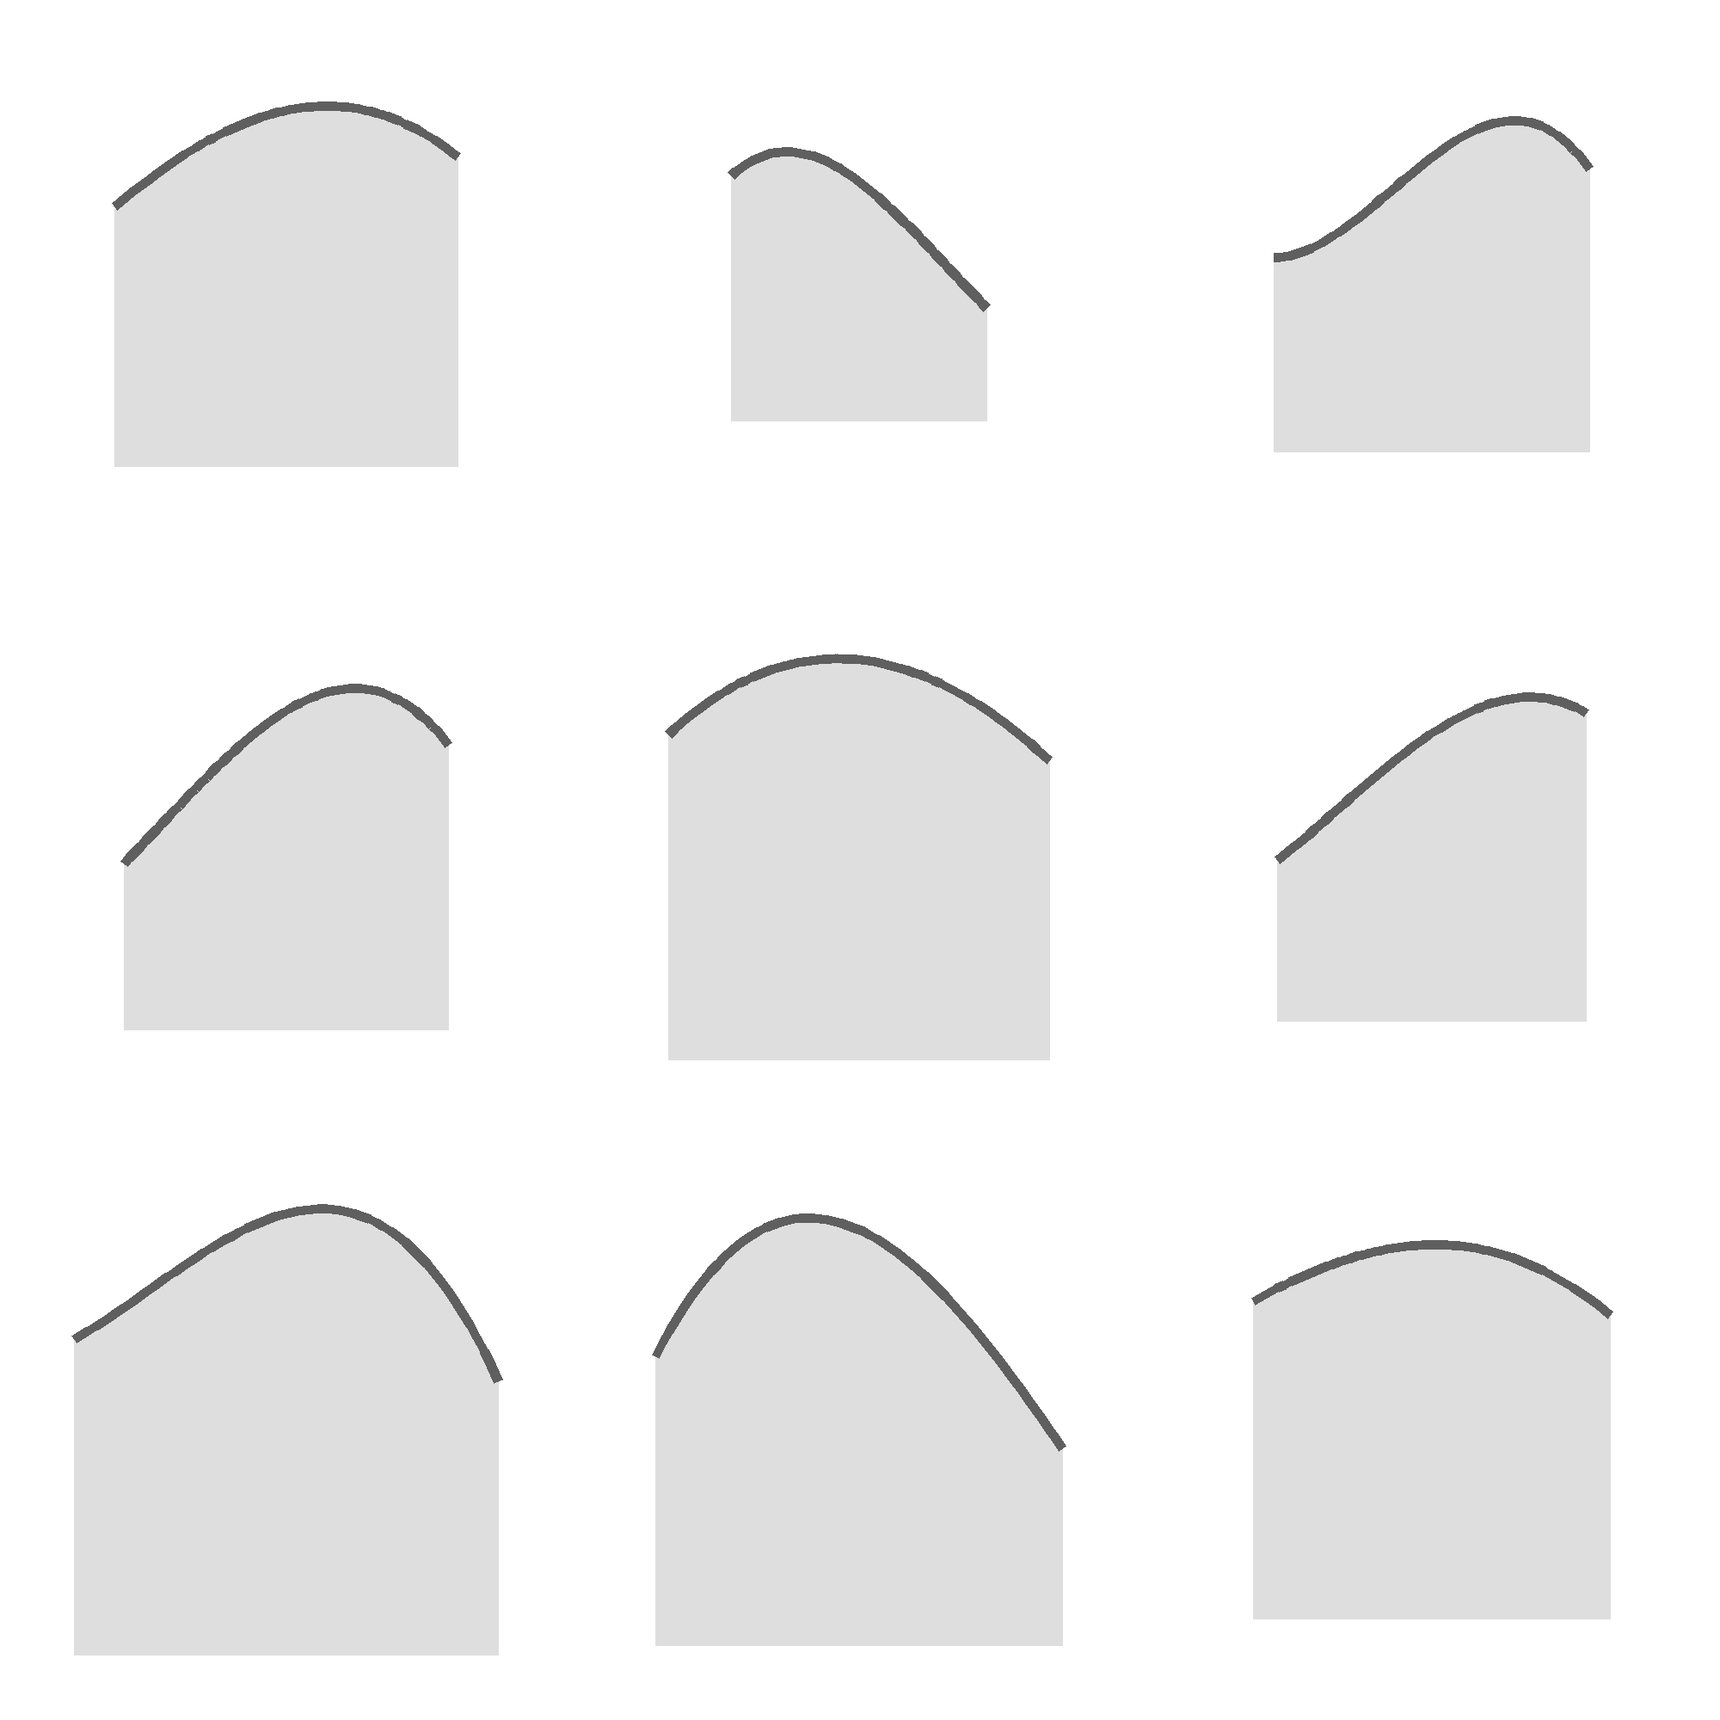
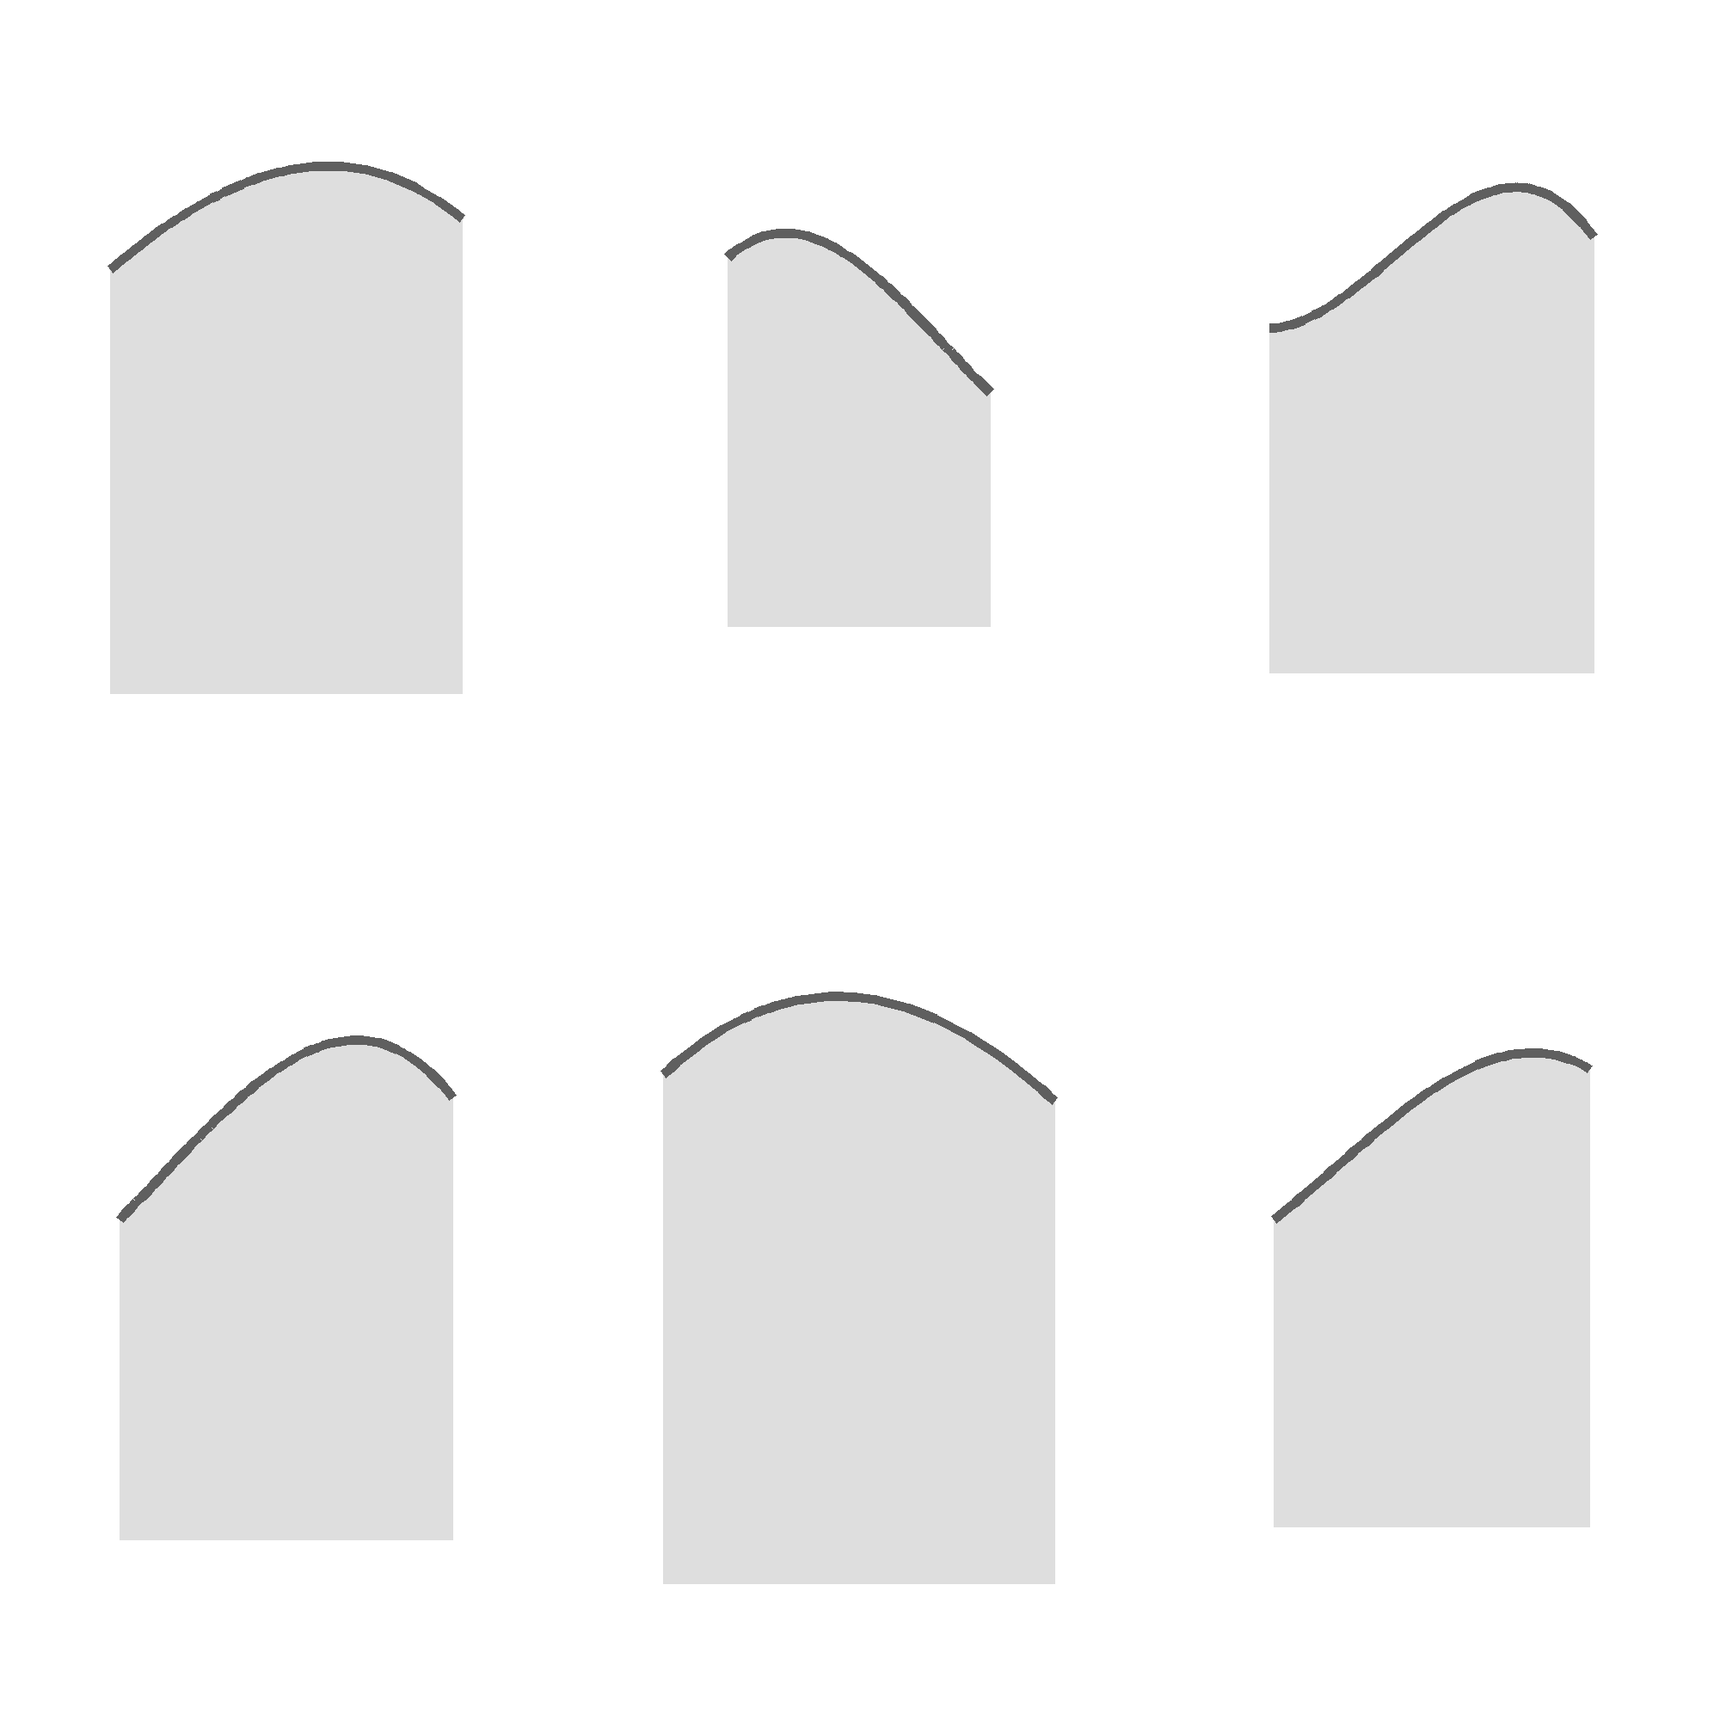
Холмы: целые холмики с юбкой 1.5 ширины, 3 направляющих листа по 6, шаг рядов от ширины
Claude-Session: https://claude.ai/code/session_01V1ND1TKADLpK8q5yuLYU2P

diff --git a/паттерн_холмы/направляющие_дуги.py b/паттерн_холмы/направляющие_дуги.py
@@ -1,5 +1,5 @@
-# Из дуг, снятых с образца (дуги.json), делает направляющие листы для Gemini: 3×3 силуэта холмиков
-# (серая линия = дуга, светло-серая область = холмик с длинной юбкой). Кривые сглаживаются и слегка варьируются
+# Из дуг, снятых с образца (дуги.json), делает направляющие листы для Gemini: 2×3 силуэта холмиков (клетки-портреты)
+# (серая линия = дуга, светло-серая область = ЦЕЛЫЙ холмик с длинной юбкой, 1.5 ширины). Кривые сглаживаются и слегка варьируются
 # (±разброс по ширине/высоте/зеркало), это геометрия формы, а не копия рисунка.
 #   python -I направляющие_дуги.py --arcs дуги.json --out направляющие --n 18
 import argparse, json, os, random
@@ -24,16 +24,16 @@ F = np.array([[i['w'] / 200, i['rise'] * 4, i['apex'] * 2, i['tilt'] * 4] for i 
 while len(pick) < min(a.n, len(items)):
     d = np.min(np.linalg.norm(F[:, None] - F[pick][None], axis=2), axis=1); d[pick] = -1; pick.append(int(d.argmax()))
 sel = [items[i] for i in pick]; wmax = max(i['w'] for i in sel)
-S = a.size; cell = S // 3; sheets = (len(sel) + 8) // 9; scale = 0.80 * cell / wmax      # самый широкий холмик = 80% клетки, высота с юбкой 1.05 ширины влезает
+S = a.size; cw, ch = S // 3, S // 2; per = 6; sheets = (len(sel) + per - 1) // per; SKIRT = 1.5; scale = 0.82 * cw / wmax   # клетка 667×1000 (портрет), самый широкий холмик = 82% ширины клетки, высота с юбкой 1.5 ширины
 for sh in range(sheets):
     im = Image.new('RGB', (S, S), (255, 255, 255)); d = ImageDraw.Draw(im)
-    for k, it in enumerate(sel[sh * 9:sh * 9 + 9]):
-        r_, c_ = divmod(k, 3); cx, cy = c_ * cell + cell // 2, r_ * cell + cell // 2
+    for k, it in enumerate(sel[sh * per:sh * per + per]):
+        r_, c_ = divmod(k, 3); cx, cy = c_ * cw + cw // 2, r_ * ch + ch // 2
         sw = rnd.uniform(0.93, 1.07); sr = rnd.uniform(0.9, 1.1); flip = rnd.random() < 0.5
         W = it['w'] * scale * sw                                        # одинаковый масштаб для всех: относительные размеры сохраняются
         pts = [((g - 0.5) * W, y / it['w'] * W * sr) for g, y in zip(it['g'], it['y'])]
         if flip: pts = [(-x, y) for x, y in pts][::-1]
-        top = min(p[1] for p in pts); hgt = 1.05 * W                        # высота от вершины до нижнего края не меньше ширины
+        top = min(p[1] for p in pts); hgt = SKIRT * W                        # полный холмик: от вершины до нижнего края 1.5 ширины (длинная юбка)
         P = [(cx + x, cy - hgt / 2 + (y - top)) for x, y in pts]            # вершина на cy - hgt/2, низ на cy + hgt/2
         bottom = cy + hgt / 2
         poly = P + [(P[-1][0], bottom), (P[0][0], bottom)]

diff --git a/паттерн_холмы/сборка_холмов.py b/паттерн_холмы/сборка_холмов.py
@@ -13,7 +13,7 @@ ap.add_argument('--elems', default='элементы'); ap.add_argument('--out',
 ap.add_argument('--w', type=int, default=2175); ap.add_argument('--h', type=int, default=2175)
 ap.add_argument('--cols', type=int, default=9)            # холмиков в ряду по ширине плитки
 ap.add_argument('--overlap', type=float, default=1.30)    # ширина холмика / шаг по x
-ap.add_argument('--rowfrac', type=float, default=0.50)    # шаг рядов / высота холмика (чем меньше, тем плотнее перекрытие)
+ap.add_argument('--rowfrac', type=float, default=0.42)    # шаг рядов / ширина холмика: виден только верх (дуга + немного заливки), остальное закрывает ряд ниже
 ap.add_argument('--jx', type=float, default=0.14); ap.add_argument('--jy', type=float, default=0.12)   # разброс положения, доли шага
 ap.add_argument('--scale', type=float, default=0.15); ap.add_argument('--rot', type=float, default=5.0)
 ap.add_argument('--tone', type=float, default=0.09)       # разброс яркости холмика
@@ -29,7 +29,7 @@ lib = [Image.open(f).convert('RGBA') for f in files]
 assert lib, 'нет элементов в ' + a.elems
 mh = float(np.mean([im.height * (W / a.cols * a.overlap) / im.width for im in lib]))      # средняя высота холмика при целевой ширине
 px = W / a.cols
-rows = max(2, round(H / (mh * a.rowfrac))); py = H / rows
+rows = max(2, round(H / (px * a.overlap * a.rowfrac))); py = H / rows           # шаг рядов от ШИРИНЫ, а не высоты: юбка любой длины не раздвигает ряды
 print(f'элементов {len(lib)}; шаг по x {px:.0f}, рядов {rows}, шаг по y {py:.0f}, средняя высота холмика {mh:.0f} ({mh / py:.1f} шагов)')
 
 # ---- расстановка: (row, x, y_верх, id, scale, rot, flip, tone)

diff --git a/паттерн_холмы/ПРОМПТЫ_холмы.md b/паттерн_холмы/ПРОМПТЫ_холмы.md
@@ -123,3 +123,20 @@
 
 Приложены: 1) направляющая с серыми силуэтами, 2) образец рулона с узором (кроп без свитка и полей).
 ```
+
+# v5: ЦЕЛЫЕ холмики с длинной юбкой по направляющим (3 листа по 6, клетки-портреты)
+Юбка теперь 1.5 ширины холмика (раньше 1.05): холмик рисуется целиком, а в сборке ряды ставятся по дугам (`--rowfrac 0.42` от ширины), видна только верхняя полоса с изгибом, остальное закрывает ряд ниже. Направляющие: `направляющие/дуги_лист_1..3.png`.
+```
+РИСУЙ: шесть отдельных ЦЕЛЫХ холмиков с длинной юбкой для паттерна в духе японской чешуи (seigaiha), нарисованных гуашью и акварелью вручную, на чистом белом фоне. Форма, размер и положение каждого холмика заданы первой приложенной картинкой с серыми силуэтами, стиль задан второй приложенной картинкой с рулоном.
+
+1. ФОРМАТ: квадрат 1:1, фон чисто белый #FFFFFF, без теней, без текстуры бумаги, без рамки. Шесть холмиков стоят в тех же местах и того же размера, что шесть серых силуэтов на первой картинке (две строки по три).
+2. ФОРМА: каждый холмик ПОЛНЫЙ, не обрезанный: верхний край идёт точно по серой линии силуэта, боковые края прямые вертикальные, нижний край ровный горизонтальный, ниже которого ничего нет. Высота холмика от вершины до нижнего края равна примерно полуторам его ширинам, юбка длинная. Форму, ширину, высоту, наклон дуги, положение вершины не менять и не выравнивать, все шесть холмиков разные, как на силуэтах.
+3. УСТРОЙСТВО КАЖДОГО, как на втором изображении (образце): серая линия силуэта, это середина широкого мазка тёмной сине-стальной краски (#1F4358); мазок живой, с лёгкой щетиной кисти по краю, толщиной около 6% ширины холмика, один конец чуть толще и темнее другого; сразу под ним одна или две тонкие параллельные светлые линии вдоль дуги, белая и бледно-мятная, чёткие и непрерывные; ниже заливка до самого нижнего края силуэта, всю длину юбки. Дуга, линии и заливка плотно примыкают друг к другу, без белых щелей.
+4. ЗАЛИВКА: ровная спокойная акварельная заливка одного и того же сине-серо-бирюзового тона на всех холмиках (#5F8DA0), с лёгкой мягкой пятнистостью бумаги, едва заметной градацией светлее к низу. Разница в тоне между холмиками совсем небольшая, до 6% яркости. Без крупных потёков, клякс, брызг, тёмных каёмок у пятен, белых проплешин. Цвет чистый.
+5. СТИЛЬ: перенять манеру образца целиком: мазок дуги, светлые линии, спокойную акварельную заливку, цвета. Все шесть холмиков в одном стиле, нарисованы одной рукой.
+6. СЕРЫЕ СИЛУЭТЫ: это только подсказка формы. Серую линию и серую заливку не рисовать, результат на чисто белом фоне без серого.
+7. НЕЛЬЗЯ: серые силуэты и серую линию в результате, фон любого цвета кроме белого, тени, рамки, подписи, перекрытие холмиков, смена формы или размера холмика, выравнивание дуг, обрезанная или укороченная юбка, рваный или размытый нижний край, крупные потёки и кляксы, брызги, белые щели между дугой и заливкой, особые формы, разные цвета заливки.
+8. РЕЗУЛЬТАТ: белый лист, шесть отдельных целых холмиков с длинной юбкой точно по силуэтам, стиль образца, чистая заливка в одном тоне.
+
+Приложены: 1) направляющая с серыми силуэтами, 2) образец рулона с узором (кроп без свитка и полей).
+```
